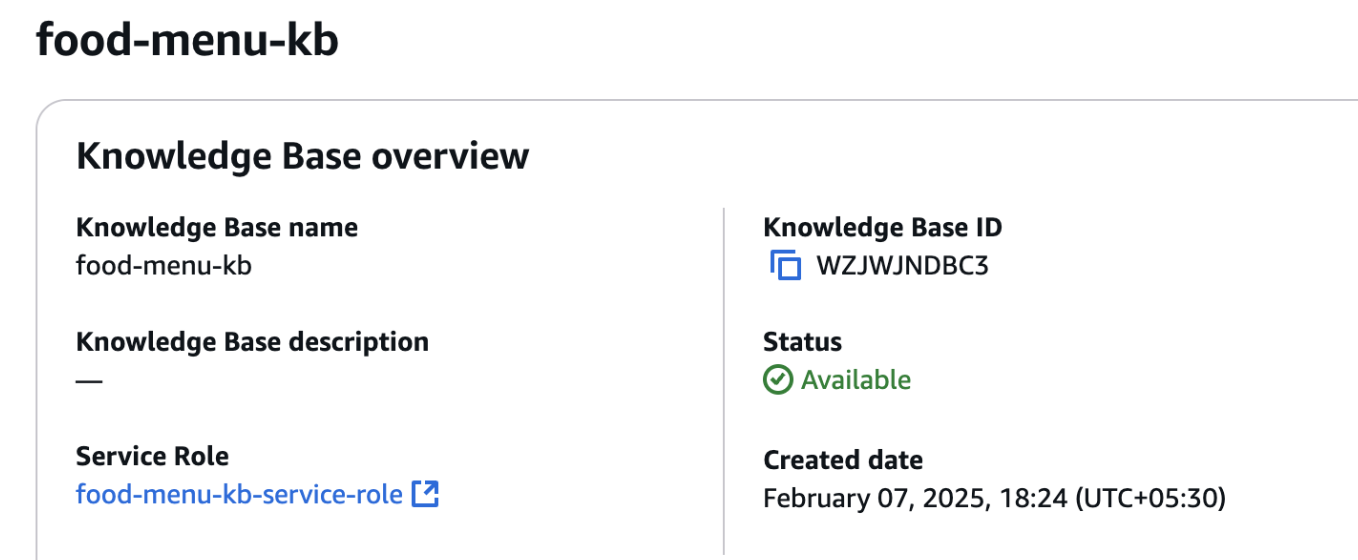
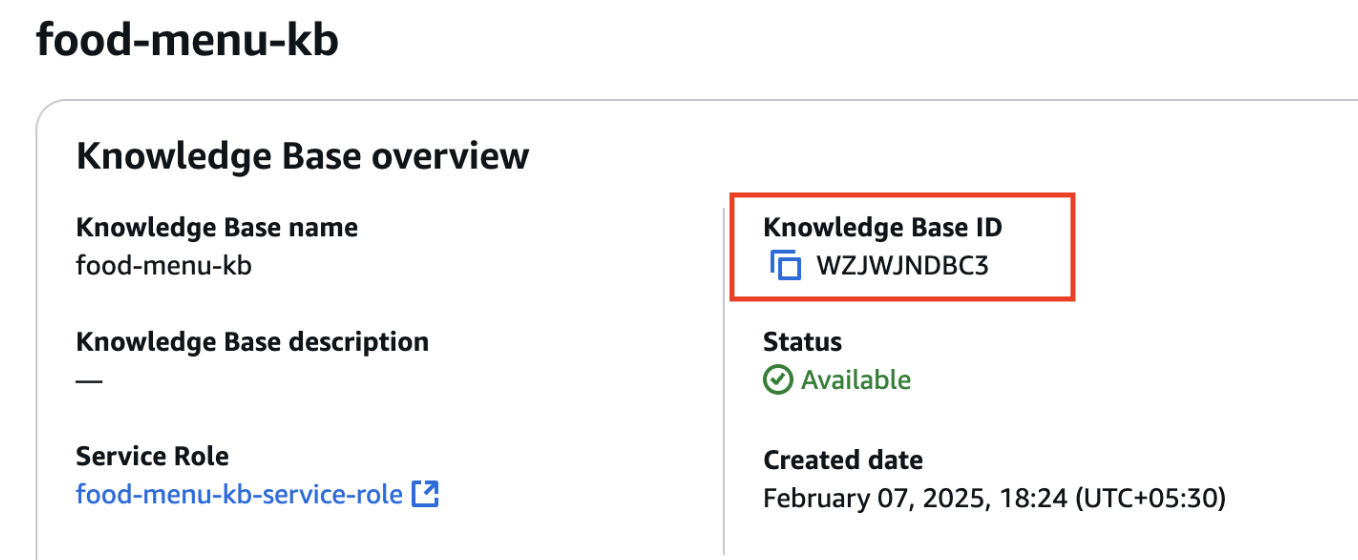
"Add detailed instructions and images for Go tutorial setup"

Changed region(s): [[0.5258, 0.3339, 0.8041, 0.5464]]

diff --git a/site/go/tutorials/simple_rag_with_go/writing_code/index.md b/site/go/tutorials/simple_rag_with_go/writing_code/index.md
@@ -15,9 +15,17 @@ Just so you know, you can clone the [repository](https://github.com/mukulmantosh
 
 ![step1](./images/1.png)
 
+Once you open the project in GoLand, the dependencies will be automatically synced. But there is one more approach.
+
+- Open the `go.mod` file and click **Update all dependencies**.
+
 ![step2](./images/1_1.png)
 
+main.go
+
 ![step3](./images/2-0.png)
+
+The following code sets up a simple HTTP server on port 8080 to handle requests received from users at the `/send-message` endpoint. The request is then forwarded to the LLM function, which processes it and returns a response. I will get into more detail about how this works.
 
 ```go
 package main
@@ -36,32 +44,25 @@ func main() {
 
 ```
 
+constants.go
+
 ![step4](./images/2-1.png)
 
-The Knowledge Base ID can be found in the Knowledge Base dashboard. Click [here](https://docs.aws.amazon.com/bedrock/latest/userguide/models-supported.html) if you're looking for the `ModelArn` and a list of supported foundation models.
+In this file, we declare two constants: `ModelArn` and `KnowledgeBaseId`. You can obtain the knowledge base ID from the KnowledgeBase dashboard.
+
+For `ModelArn`, you can refer to the list of supported foundation [models](https://docs.aws.amazon.com/bedrock/latest/userguide/models-supported.html). In our case, we have chosen Claude 3 Sonnet.
+
+- Note: If you're choosing a different model, make sure it is already enabled in your account.
 
 ![kb](./images/knowledge_base.png)
 
+![foundational_models](./images/foundation_models.png)
+
+model.go
+
 ![step5](./images/3.png)
 
-The code defines a `BedrockAgent` structure that interacts with AWS Bedrock Agent Runtime. It has two main components:
-
-1. **Initialization (`NewBedrock`)**: Sets up the Bedrock agent client using AWS credentials.
-2. **Knowledge Base Query (`RetrieveResponseFromKnowledgeBase`)**: Queries a knowledge base to retrieve and generate a response for a given question.
-
-   - `BedrockAgent` contains an AWS client (`bedrockagentruntime.Client`) that interacts with the Bedrock service.
-
-- `RetrieveResponseFromKnowledgeBase` queries a Bedrock-powered knowledge base for a generated response to a user-provided question. It uses a specific knowledge base ID and a vector search strategy to retrieve related results.
-
-  - The `RetrieveResponseFromKnowledgeBase` function uses the Bedrock runtime client to:
-  - Send a **question** to a configured knowledge base.
-  - Retrieve a response using the `RetrieveAndGenerate` API, which:
-
-    - Specifies the knowledge base ID.
-    - Configures a vector search (e.g., searching for results with related vectors) with 6 results.
-    - Uses a specific `ModelArn` for processing the input.
-
-  - Returns the generated response (`output.Output.Text`).
+Let me break down the code in `model.go` step-by-step.
 
 ```go
 package main
@@ -96,7 +97,28 @@ func NewBedrock() *BedrockAgent {
 		Client: *BedrockAgentRuntimeClient,
 	}
 }
+```
 
+The code defines a `BedrockAgent` structure that interacts with AWS Bedrock Agent Runtime. It has two main components:
+
+1. **Initialization (`NewBedrock`)**: Sets up the Bedrock agent client using AWS credentials.
+2. **Knowledge Base Query (`RetrieveResponseFromKnowledgeBase`)**: Queries a knowledge base to retrieve and generate a response for a given question.
+
+   - `BedrockAgent` contains an AWS client (`bedrockagentruntime.Client`) that interacts with the Bedrock service.
+
+- `RetrieveResponseFromKnowledgeBase` queries a Bedrock-powered knowledge base for a generated response to a user-provided question. It uses a specific knowledge base ID and a vector search strategy to retrieve related results.
+
+  - The `RetrieveResponseFromKnowledgeBase` function uses the Bedrock runtime client to:
+  - Send a **question** to a configured knowledge base.
+  - Retrieve a response using the `RetrieveAndGenerate` API, which:
+
+    - Specifies the knowledge base ID.
+    - Configures a vector search (e.g., searching for results with related vectors) with 6 results.
+    - Uses a specific `ModelArn` for processing the input.
+
+  - Returns the generated response (`output.Output.Text`).
+
+```go
 func (bedrockAgent *BedrockAgent) RetrieveResponseFromKnowledgeBase(question string) string {
 	// invoke bedrock agent runtime to retrieve and generate
 	output, err := bedrockAgent.Client.RetrieveAndGenerate(
